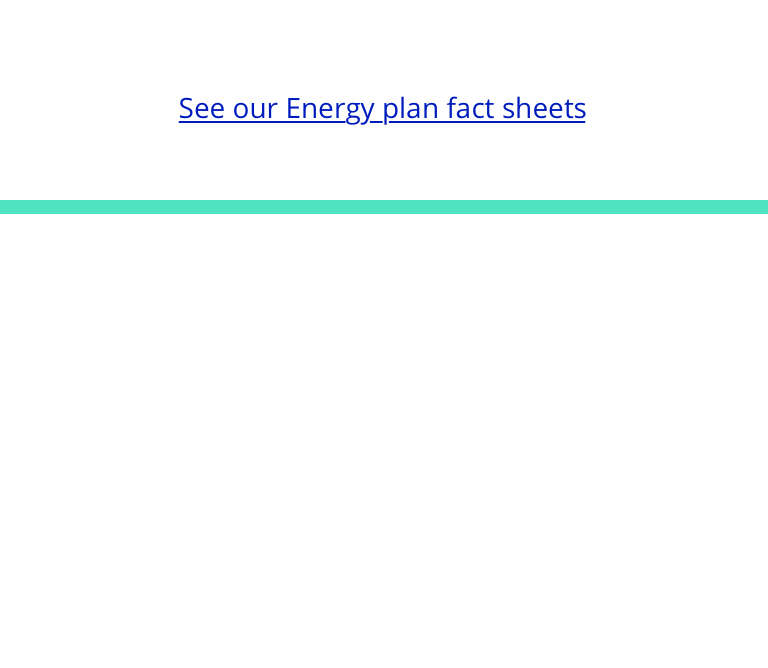
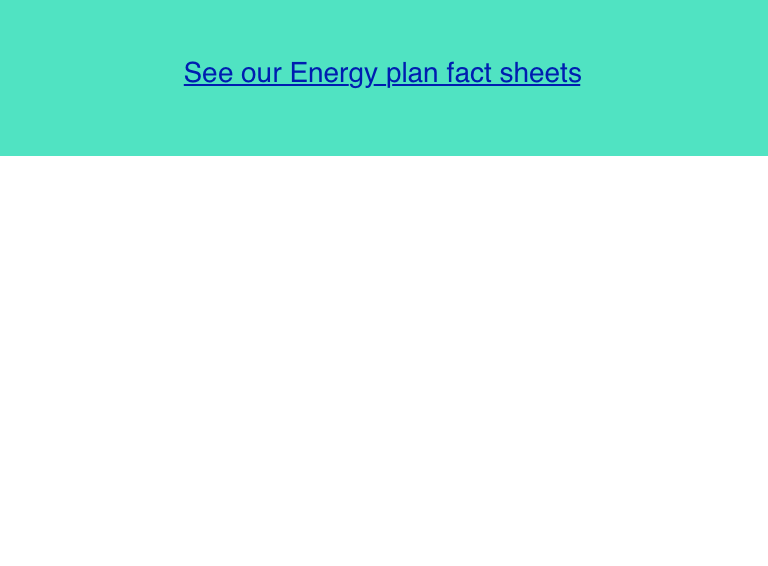
Thursday

Changed region(s): [[0.0, 0.0, 1.0, 0.3304]]

diff --git a/plp-essentials.html b/plp-essentials.html
@@ -82,7 +82,15 @@
 			<p property="plp-plan-desc">Get our lowest available rates for electricity and gas. With no lock-in contract you’re free to change your plan anytime.</p>
 		</div>
 		<div class="plp-intro-wrapper-set-02">
-			<div class="plp-plan-card-wrapper"><img src="image-mock/plp-card-estimate.png" alt="" property="plp-card-hero" ></div>
+			<div class="plp-plan-card-wrapper">
+				<div class="plp-plan-card-content">
+					<img src="image-mock/plp-card-estimate-p01.png" alt="" property="plp-card-hero" >
+					<div class="plp-plan-card-btn-wrapper">
+						<a href="plp-essentials.html" aria-role="button"> <div class="bttn bttn-secondary-alt" property="plp-signup-cta">Sign up</div></a>
+						<a href="#" aria-role="button"> <div class="bttn bttn-secondary" property="plp-signup-cta" id="cta-refine">Refine estimate</div></a></div>
+					<img src="image-mock/plp-card-estimate-p02.png" alt="" property="plp-card-hero" >
+				</div>
+			</div>
 		</div>
 	</div>
 </section>
@@ -120,51 +128,69 @@
 	<div class="plp-features-wrapper">
 		
 		<div class="plp-features-block">
-			<img 	property="plp-feature-block-01-img"		src="image-mock/icon-rates.svg" alt=""  >
+			<div>
+			<div class="plp-features-icon"><img 	property="plp-feature-block-01-img"		src="image-mock/icon-rates.svg" alt=""  ></div>
 			<h2 	property="plp-feature-block-01-hd">		Our lowest available rates</h2>
 			<p 		property="plp-feature-block-01-bd">		Our fixed rate plans mean that we’ll guarantee your usage rates will stay the same for 24 months. That’s zero increases - no matter what happens with industry rates. Sign up today to set your rates at today’s great prices.</p>
+			</div>
 		</div>
 		
 		<div class="plp-features-block">
-			<img 	property="plp-feature-block-02-img"		src="image-mock/icon-fixed.svg" alt=""  >
+			<div>
+			<div class="plp-features-icon"><img 	property="plp-feature-block-02-img"		src="image-mock/icon-fixed.svg" alt=""  ></div>
 			<h2 	property="plp-feature-block-02-hd">		Fixed rates for 2 years - guaranteed</h2>
 			<p 		property="plp-feature-block-02-bd">		Text to come</p>
+			</div>
 		</div>
 		
 		<div class="plp-features-block">
-			<img 	property="plp-feature-block-03-img"		src="image-mock/icon-bonus.svg" alt=""  >
+			<div>
+			<div class="plp-features-icon"><img 	property="plp-feature-block-03-img"		src="image-mock/icon-bonus.svg" alt=""  ></div>
 			<h2 	property="plp-feature-block-03-hd">		Extra bonus credits over 2 years*</h2>
 			<p 		property="plp-feature-block-03-bd">		Text to come</p>
+			</div>
 		</div>
 		
 		<div class="plp-features-block">
-			<img 	property="plp-feature-block-04-img"		src="image-mock/icon-contact.svg" alt=""  >
+			<div>
+			<div class="plp-features-icon">
+				<img 	property="plp-feature-block-04-img"		src="image-mock/icon-contact.svg" alt=""  >
+				</div>
 			<h2 	property="plp-feature-block-04-hd">		Online & call centre support</h2>
 			<p 		property="plp-feature-block-04-bd">		Text to come</p>
+			</div>
 		</div>
 		
 		<div class="plp-features-block">
-			<img 	property="plp-feature-block-05-img"		src="image-mock/icon-no-lock.svg" alt=""  >
+			<div>
+			<div class="plp-features-icon"><img 	property="plp-feature-block-05-img"		src="image-mock/icon-no-lock.svg" alt=""  ></div>
 			<h2 	property="plp-feature-block-05-hd">		Commitment free with no lock-in contracts</h2>
 			<p 		property="plp-feature-block-05-bd">		Text to come</p>
+			</div>
 		</div>
 		
 		<div class="plp-features-block">
-			<img 	property="plp-feature-block-06-img"		src="image-mock/icon-rewards.svg" alt=""  >
+			<div>
+			<div class="plp-features-icon"><img 	property="plp-feature-block-06-img"		src="image-mock/icon-rewards.svg" alt=""  ></div>
 			<h2 	property="plp-feature-block-06-hd">		Online sign up rewards with AGL</h2>
 			<p 		property="plp-feature-block-06-bd">		Text to come</p>
+			</div>
 		</div>
 		
 		<div class="plp-features-block">
-			<img 	property="plp-feature-block-07-img"		src="image-mock/icon-green.svg" alt=""  >
-			<h2 	property="plp-feature-block-07-hd">		Flexible payment options to suit you</h2>
+			<div>
+			<div class="plp-features-icon"><img 	property="plp-feature-block-07-img"		src="image-mock/icon-green.svg" alt=""  ></div>
+			<h2 	property="plp-feature-block-07-hd">		Green energy options</h2>
 			<p 		property="plp-feature-block-07-bd">		Text to come</p>
+			</div>
 		</div>
 		
 		<div class="plp-features-block">
-			<img 	property="plp-feature-block-08-img"		src="image-mock/icon-billing.svg" alt=""  >
+			<div>
+			<div class="plp-features-icon"><img 	property="plp-feature-block-08-img"		src="image-mock/icon-billing.svg" alt=""  ></div>
 			<h2 	property="plp-feature-block-08-hd">		Available with monthly e-billing</h2>
 			<p 		property="plp-feature-block-08-bd">		Text to come</p>
+			</div>
 		</div>
 
 	</div>
@@ -204,12 +230,12 @@
 <section id="hp-why">
 	<div class="hp-why-cards-wrapper">
 		<div class="hp-why-card hp-why-01">
-			<div class="hp-why-img"><img src="image-mock/why-aus.jpg" alt="renewable" property="plp-why-img-01" ></div>
+			<div class="hp-why-img"><img src="image-mock/why-aus-03.jpg" alt="renewable" property="plp-why-img-01b" ></div>
 			<h2 property="plp-why-point-01-hd">Simple prices that work</h2>
 			<p property="plp-why-point-01-bd">Text to come, short, snappy and no longer then two lines</p>
 		</div>
 		<div class="hp-why-card hp-why-02">
-			<div class="hp-why-img"><img src="image-mock/why-community.jpg" alt="renewable" property="plp-why-img-02" ></div>
+			<div class="hp-why-img"><img src="image-mock/why-renew-02.jpg" alt="renewable" property="plp-why-img-02b" ></div>
 			<h2 property="plp-why-point-02-hd">Renewable at the core</h2>
 			<p property="plp-why-point-02-bd">Text to come, short, snappy and no longer then two lines.</p>
 		</div>
@@ -241,8 +267,8 @@
 <!-- statement tab -->
 <section id="plp-statement-02">
 	<div class="plp-statement-wrapper">
-		<h1 property="plp-statement-02-hd">People choose AGL for a good reason</h1>
-		<h2 property="plp-statement-02-bd">Providing Australian energy to your home is just the tip of what we offer.</h2>
+		<h1 property="plp-statement-02-hd">Looking for something different?</h1>
+		<h2 property="plp-statement-02-bd">We strive to provide plans to suit your different needs.</h2>
 	</div>
 </section>
 <!-- /statement tab -->
@@ -298,6 +324,12 @@
         	$(".plp-looking-content-expanded").hide();
         	$(".plp-looking-content").show();
 		});
+		
+		$("#cta-refine").click(function() {
+        	$(".plp-looking-content-expanded").show();
+        	$(".plp-looking-content").hide();
+		});
+		
 		
 		$('#plp-sticky-nav').hide();
 		

diff --git a/css/01-objects/buttons.css b/css/01-objects/buttons.css
@@ -120,7 +120,7 @@ Core button style
 
 /* Core style */
 button, .bttn {
-	font-family: var(--font-hd);
+	font-family: var(--font-bd);
 	height: var(--btn-height);
 	line-height: var(--btn-height);
 	width: var(--btn-width);
@@ -133,7 +133,8 @@ button, .bttn {
 	font-size: var(--btn-font-size);
 	font-weight: var(--btn-font-weight);
 	letter-spacing: var(--btn-letter-spacing);
-	text-transform: uppercase;
+	letter-spacing: 0;
+	/*text-transform: uppercase;*/
 	text-align: center;
 }
 
@@ -239,6 +240,65 @@ Primary
 
 
 /*–––––––––––––––––––––––––––––––––––––––
+Secondary – alt
+–––––––––––––––––––––––––––––––––––––––––––––––––––––––––––––––––*/
+.bttn-secondary-alt {
+	background: var(--btn-02-col-02);
+	color: white;
+	position: relative;
+	z-index: 100;
+	border: none;
+}
+.bttn-secondary-alt:hover,	.bttn-secondary-alt.hover {
+	line-height: var(--btn-height);
+	border: none;
+	color: var(--btn-02-hover-text);
+	box-shadow: var(--btn-shadow-02);
+}
+.bttn-secondary-alt:before {
+	border-radius: var(--btn-radius);
+	background-color: var(--btn-02-hover-bg);
+	background-image: linear-gradient(var(--btn-02-hover-bg-grad));
+	background-image: -webkit-linear-gradient(var(--btn-02-hover-bg-grad));
+	content: '';
+	display: block;
+	height: 100%;
+	width: 100%;
+	position: absolute;
+	top: 0;
+	left: 0;
+	opacity: 0;
+	z-index: -100;
+	transition: 			opacity 		0.25s ease-in-out;
+}
+.bttn-secondary-alt:hover:before {
+  opacity: 1;
+}
+.bttn-secondary-alt:active:before,
+.bttn-secondary-alt.active {
+	color: var(--btn-02-hover-text);
+	box-shadow: none;
+	background-image: linear-gradient(var(--btn-02-active-bg-grad));
+	background-image: -webkit-linear-gradient(var(--btn-02-active-bg-grad));
+}
+/* for showcase */
+.bttn-secondary-alt.hover {
+	color: var(--btn-02-hover-text);
+	background-image: linear-gradient(var(--btn-02-hover-bg-grad));
+	background-image: -webkit-linear-gradient(var(--btn-02-hover-bg-grad));
+	box-shadow: var(--btn-shadow-01);
+}
+.bttn-secondary-alt.focus {
+	background-color: var(--btn-02-focus-bg);
+}
+.bttn-secondary-alt.loading {
+	background-color: var(--btn-02-active-bg);
+	background-image: linear-gradient(var(--btn-02-active-bg-grad));
+	background-image: -webkit-linear-gradient(var(--btn-02-active-bg-grad));
+}
+
+
+/*–––––––––––––––––––––––––––––––––––––––
 Secondary
 –––––––––––––––––––––––––––––––––––––––––––––––––––––––––––––––––*/
 .bttn-secondary {
@@ -299,7 +359,7 @@ Secondary
 
 
 /*–––––––––––––––––––––––––––––––––––––––
-Secondary – Reverse
+Secondary – alt
 –––––––––––––––––––––––––––––––––––––––––––––––––––––––––––––––––*/
 .bttn-secondary-reverse {
 	background: var(--btn-03-bg);

diff --git a/css/02-components/plp-sticky-nav.css b/css/02-components/plp-sticky-nav.css
@@ -1,9 +1,11 @@
 /*
 –––––––––––––––––––––––––––––––––––––––
-Container
+Nav
 –––––––––––––––––––––––––––––––––––––––––––––––––––––––––––––––––*/
 #plp-sticky-nav {
-	background-color: #F5F5F5;
+	background-color: #fff;
+	background-image: url("../../image-mock/sticky-nav-bg.png");
+	height: 80px;
 	width: 100%;
 	box-shadow: 0 3px 8px 0 rgba(0,0,0,0.20);
 	z-index: 999;
@@ -23,3 +25,7 @@ Container
 	height: auto;
 }
 
+/*
+–––––––––––––––––––––––––––––––––––––––
+
+–––––––––––––––––––––––––––––––––––––––––––––––––––––––––––––––––*/

diff --git a/css/02-components/plp-intro.css b/css/02-components/plp-intro.css
@@ -4,7 +4,7 @@ Container
 –––––––––––––––––––––––––––––––––––––––––––––––––––––––––––––––––*/
 #plp-intro {
 	
-	background-color: var(--c01-dark-02);
+	background-color: var(--c01-dark);
 }
 .plp-intro-wrapper {
 	width: 1216px;
@@ -34,9 +34,26 @@ Container
 .plp-plan-card-wrapper {
 	position: relative; 
 }
-.plp-plan-card-wrapper img {
+.plp-plan-card-content {
 	position: absolute;
-	top:-480px;
+	top:-493px;
+	text-align: center;
+}
+
+.plp-plan-card-wrapper img {
 	width: 100%;
 	height: auto;
+}
+.plp-plan-card-btn-wrapper {
+	width: 100%;
+	background-color: #fff;
+	padding: var(--sp-04);
+	margin-top: -4px;
+}
+.plp-plan-card-btn-wrapper .bttn {
+	width: 100%;
+	margin-bottom: var(--sp-04);
+}
+.plp-plan-card-btn-wrapper .bttn-secondary {
+	margin-bottom: 0;
 }

diff --git a/css/02-components/plp-why.css b/css/02-components/plp-why.css
@@ -39,11 +39,12 @@ Why card
 
 .hp-why-card {
 	width: 384px;	
-	background-color: var(--c01-dark);
+	background-color: #fff;
 	transition: all .3s ease-in-out;
 }
 .hp-why-card h2 {
 	color: #fff;
+	color: var(--c01-dark);
 	padding: var(--sp-03) var(--sp-04);
 	font-family: var(--font-bd);
 	font-size: var(--bd-size-xl);
@@ -69,10 +70,12 @@ Why card
 }
 .hp-why-card:hover h2 {
 	color: var(--c03-gray-01);
+	color: var(--c01-dark);
 }
 .hp-why-card:hover p {
 	display: block;
 	color: color: var(--c03-gray-01);
+	color: var(--c01-dark);
 	padding: var(--sp-03) var(--sp-04);
 	padding-top: 0;
 	font-size: var(--bd-size-lg);

diff --git a/css/02-components/plp-tabs.css b/css/02-components/plp-tabs.css
@@ -59,11 +59,19 @@ Features
 	height: 312px;
 	transition: all .3s ease-in-out;
 	background-color: #fff;
+	display: flex;
+	align-items: center;
+	flex-wrap: wrap;
+	
 }
 .plp-features-block img {
 	width: 72px;
 	height: 72px;
-	margin-top: 90px;
+}
+.plp-features-icon {
+	width: 100%;
+	height: 72px;
+	margin-bottom: var(--sp-03);
 }
 .plp-features-block h2 {
 	font-family: var(--font-bd);
@@ -88,7 +96,7 @@ Features
 	display: block;
 }
 .plp-features-block:hover h2,
-.plp-features-block:hover img {
+.plp-features-block:hover .plp-features-icon {
 	display: none;
 }
 

diff --git a/css/03-pages/plp.css b/css/03-pages/plp.css
@@ -14,6 +14,7 @@ Import base styles
 @import "../02-components/plp-hero.css";
 @import "../02-components/plp-intro.css";
 @import "../02-components/plp-why-choose.css";
+@import "../02-components/plp-why.css";
 @import "../02-components/plp-tabs.css";
 @import "../02-components/plp-sticky-nav.css";
 @import "../02-components/plp-statement.css";

diff --git a/css/02-components/plp-looking.css b/css/02-components/plp-looking.css
@@ -6,7 +6,10 @@ Container
 	width: 100%;
 	background-color: var(--c01-dark-02);
 }
-
+#plp-looking:hover {
+	opacity: 0.9;
+	cursor: pointer;
+}
 
 .plp-looking-content,
 .plp-looking-content-expanded {
